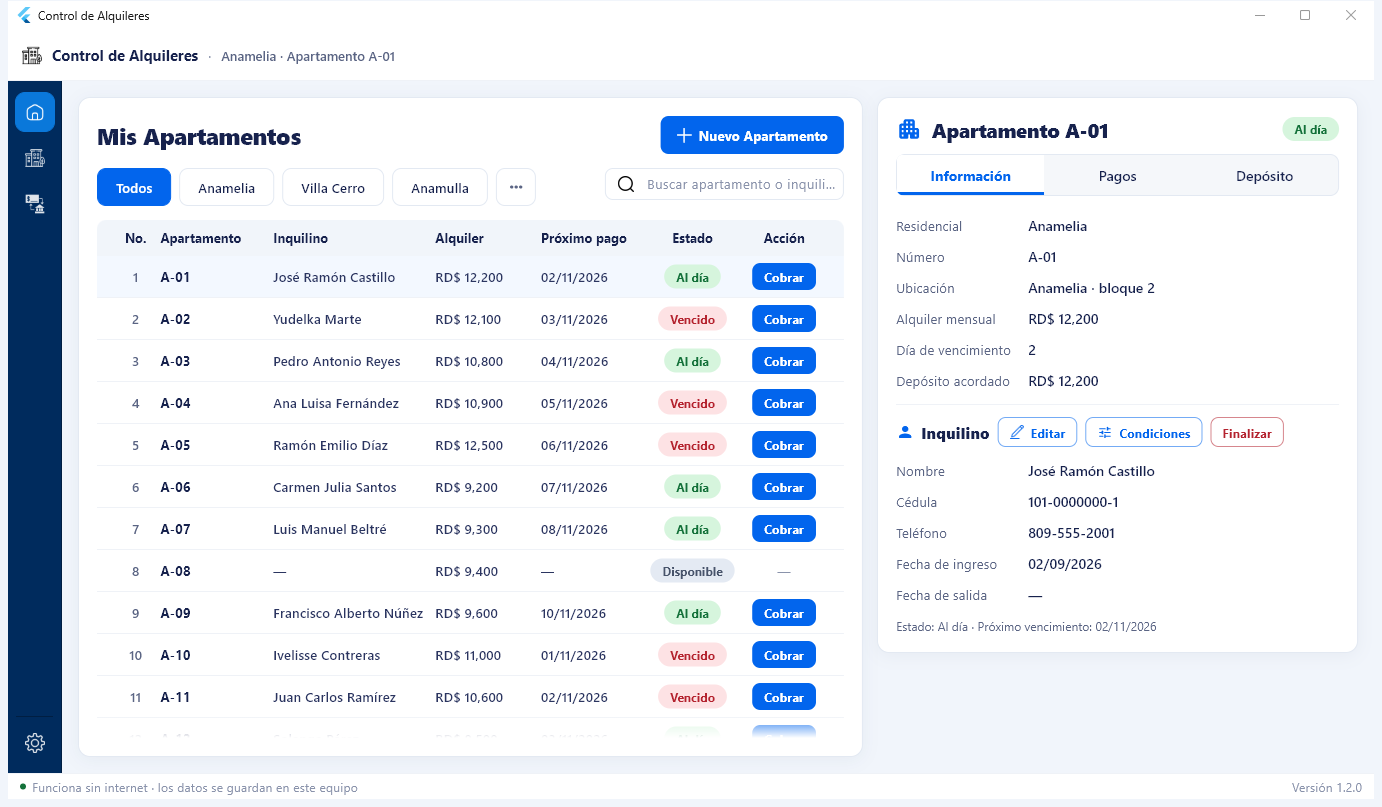
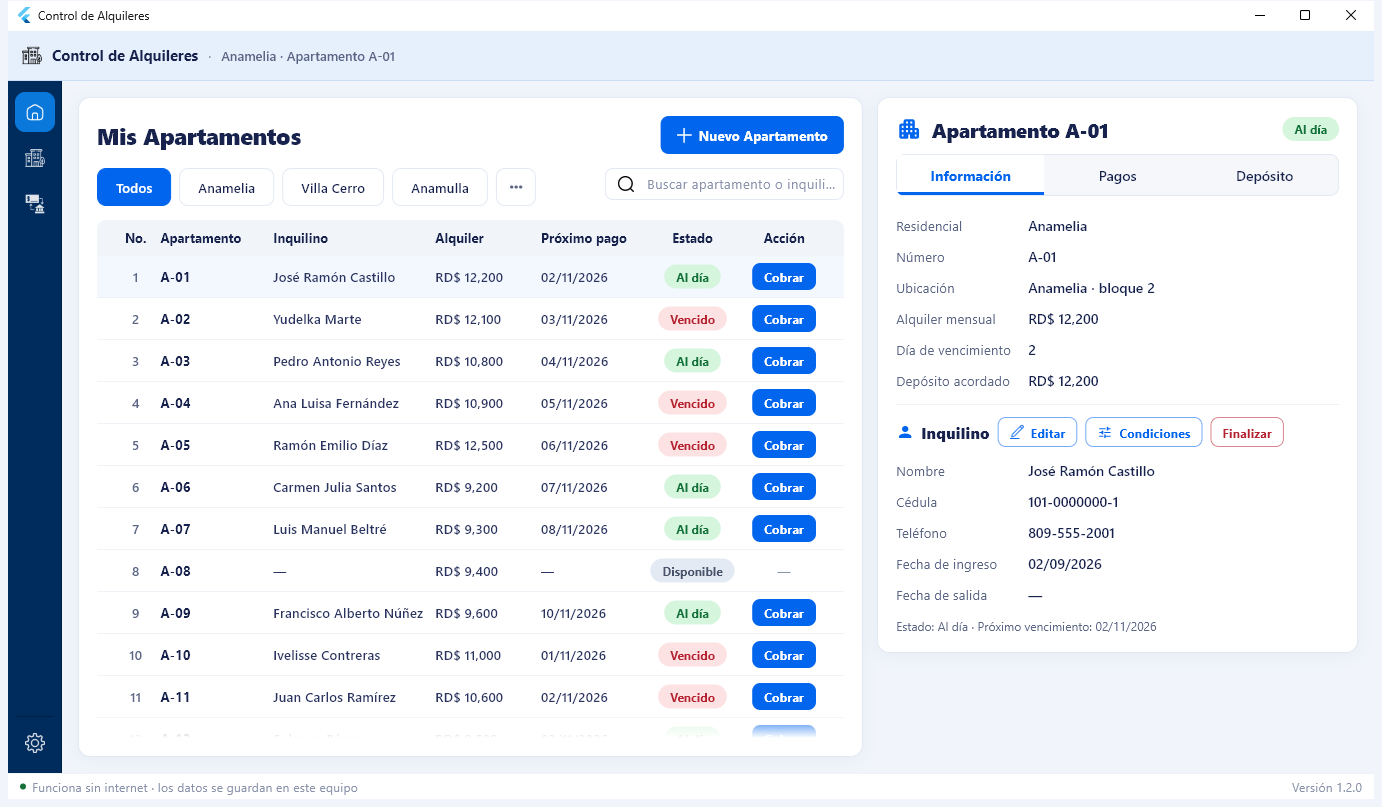
UI: barra de marca en azul muy claro
- AppColors.appBarSoft / appBarSoftBorder: separa la barra de marca del marco nativo blanco
- Capturas actualizadas; probado ticket de calibracion por COM3 (impresora 2C-P80-C emparejada)

Changed region(s): [[0.0, 0.031, 0.9957, 0.1239]]

diff --git a/lib/src/ui/shell/title_bar.dart b/lib/src/ui/shell/title_bar.dart
@@ -21,8 +21,10 @@ class AppTitleBar extends StatelessWidget {
     return Container(
       height: AppMetrics.appBarHeight,
       decoration: const BoxDecoration(
-        color: Colors.white,
-        border: Border(bottom: BorderSide(color: AppColors.divider)),
+        // Azul muy claro: distingue la barra de marca del marco nativo de
+        // Windows (blanco) sin competir con el azul de la barra lateral.
+        color: AppColors.appBarSoft,
+        border: Border(bottom: BorderSide(color: AppColors.appBarSoftBorder)),
       ),
       padding: const EdgeInsets.symmetric(horizontal: 14),
       child: Row(

diff --git a/lib/src/theme/app_colors.dart b/lib/src/theme/app_colors.dart
@@ -12,6 +12,10 @@ abstract final class AppColors {
   static const Color primarySoft = Color(0xFFE9F1FE);
   static const Color activeTile = Color(0xFF0A78DA);
 
+  /// Barra de marca (debajo del marco nativo blanco de Windows).
+  static const Color appBarSoft = Color(0xFFE6EFFC);
+  static const Color appBarSoftBorder = Color(0xFFCBDCF7);
+
   // Superficies
   static const Color pageBg = Color(0xFFF1F5FB);
   static const Color card = Color(0xFFFFFFFF);

diff --git a/README.md b/README.md
@@ -196,6 +196,8 @@ docs/GUIA_RAPIDA.md           guía de una página para la dueña
   la aplicación no pinta botones falsos. El marco se fuerza a **blanco**
   (`DwmSetWindowAttribute`: sin modo oscuro, color de título blanco y texto
   oscuro) para que combine con la interfaz aunque Windows esté en tema oscuro.
+  Debajo, la barra de marca va en **azul muy claro** (`AppColors.appBarSoft`)
+  para no confundirse con el marco blanco del sistema.
   Mínimo 960×540 (1366×768 al 125 % deja ~1093×578).
 
 ### Comportamiento por tamaño
